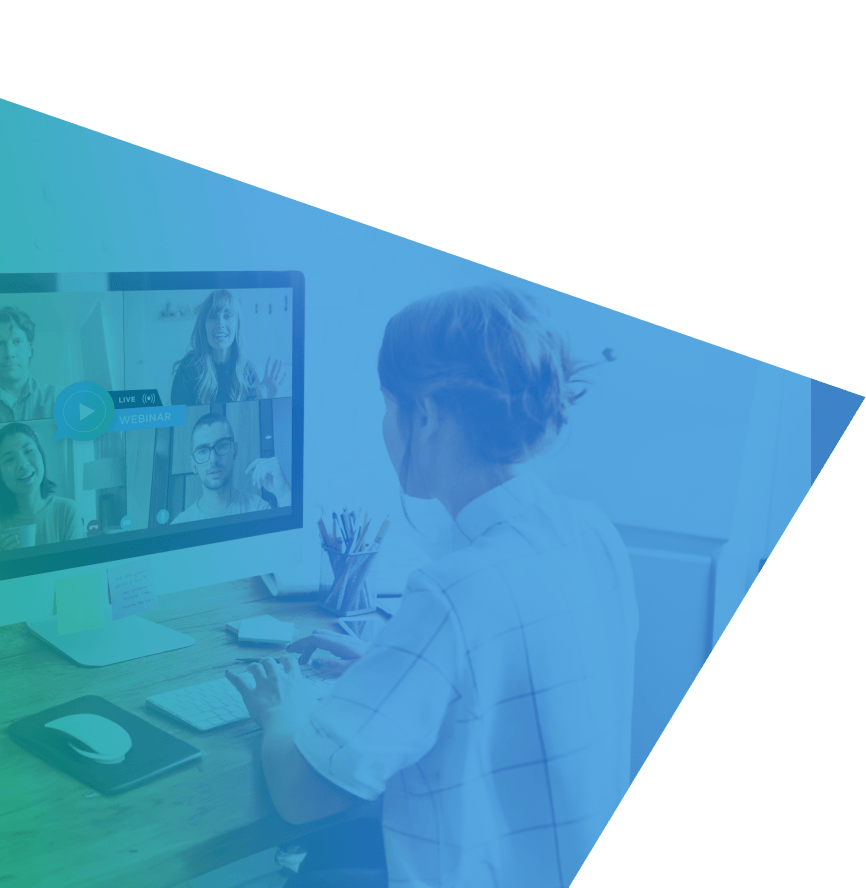
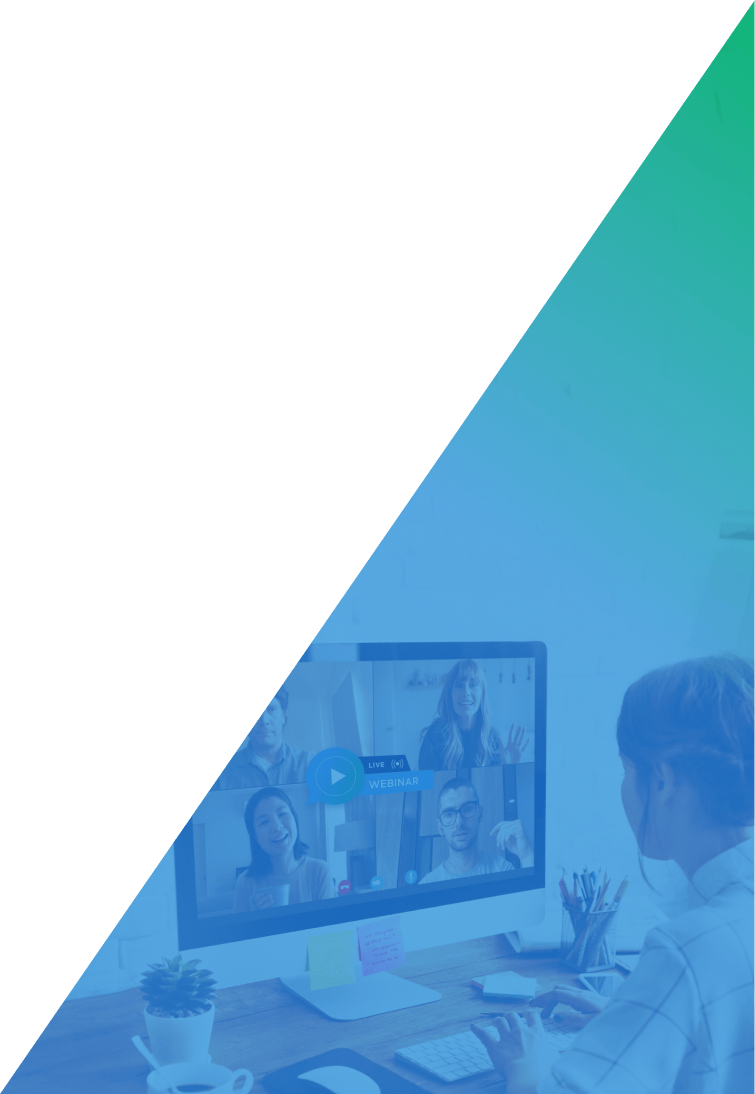
Courses module: demo updates

diff --git a/modules/courses/public/assets/courses.css b/modules/courses/public/assets/courses.css
@@ -1,1 +1,1 @@
-html,body{height:100%}.container{margin-right:auto;margin-left:auto;max-width:100%;width:100%;padding-right:15px;padding-left:15px}@media (min-width: 576px){.container{max-width:540px}}@media (min-width: 768px){.container{max-width:720px}}@media (min-width: 992px){.container{max-width:960px}}@media (min-width: 1200px){.container{max-width:1140px}}@media screen and (min-width: 1400px){.container{max-width:1370px}}@media screen and (min-width: 1600px){.container{max-width:1570px}}a:not(.pos-clean){text-decoration:underline;color:rgb(var(--interactive-text))}p{padding:8px 0}.logo{font-size:1rem;font-weight:700;display:inline-flex;flex-direction:column;align-items:baseline;color:rgb(var(--prominent))}@media (min-width: 768px){.logo{font-size:1.4rem;flex-direction:row;gap:1rem}}.heading{padding:6px 0 24px;text-align:center;font-size:1.6rem;line-height:1.2}@media (min-width: 768px){.heading{font-size:2rem}}.form-panel{max-width:500px;margin:16px auto}.user-form .user-form__fieldset{padding-bottom:18px}.user-form .user-form__footer{padding-top:24px;font-size:.9rem;color:rgb(var(--supplementary))}.page-courses{display:grid;height:100%;grid-template-columns:1fr;grid-template-rows:80px 1fr;grid-auto-flow:row}.page-courses .main{display:flex}.page-courses .content-static{padding-top:2rem}.page-courses .user-forms{display:flex;flex:1;background-position:bottom left;background-size:contain;background-repeat:no-repeat}.page-courses .user-forms--register{align-items:center;background-position-x:right}.page-courses .user-forms__register-content{display:flex;flex:1;flex-direction:column}.page-courses .user-forms--register .user-forms__content{display:flex;flex-wrap:wrap;align-items:center;justify-content:center;gap:4rem;padding:2rem .5rem}.page-courses .user-forms__video{max-width:100%;height:auto;aspect-ratio:16/9}.page-courses .user-forms--register .heading--multiline{font-weight:700;font-size:3rem}.page-courses .user-forms--register .heading--multiline .heading__sub{display:block;font-size:2rem;font-weight:100}@media (min-width: 1024px){.page-courses .user-forms--register .heading--multiline{text-align:left}}.page-courses .user-forms__title,.page-courses .user-forms__description{max-width:640px;margin:2rem auto;text-align:center}.page-courses .user-forms__title{font-size:2rem;font-weight:700}.page-courses .user-forms__description{font-size:1.2rem;text-shadow:0 0 24px rgb(var(--panel))}.courses{display:grid;height:100%;width:100%;grid-template-columns:1fr;grid-template-rows:max-content 1fr}@media (min-width: 1024px){.courses{grid-template-columns:1fr 300px;grid-template-rows:1fr;gap:0em 2em;grid-auto-flow:row}}@media (min-width: 1280px){.courses{grid-template-columns:1fr 480px}}@media (min-width: 1920px){.courses{grid-template-columns:1fr 560px}}.courses__sidebar{max-height:0;opacity:0;transition:all .3s ease-out;overflow:hidden;order:0;padding:0 1rem}@media (min-width: 1024px){.courses__sidebar{max-height:none;overflow:visible;opacity:1;order:2;padding:0}}.courses__sidebar--open{max-height:2000px;display:block;opacity:1}.module-list{padding:1rem 0}.module-list__item{margin-bottom:.5rem;padding-bottom:.5rem;border-bottom:1px solid rgb(var(--divider))}.module-list__item-title{display:flex;align-items:center;justify-content:space-between;padding:.5rem 1rem .5rem 0;font-size:1rem;font-weight:700;cursor:pointer}.module-list__item--active .module-list__item-title{color:rgb(var(--interactive-text))}.course-list{max-height:0;overflow:hidden;opacity:0;transition:all .3s ease-in-out}.module-list__item--active .course-list{max-height:100vh;opacity:1}.module-list__item-icon{transition:transform .2s ease-in-out}.module-list__item--active .module-list__item-icon{transform:scaleY(-1)}.course-list__item{display:flex;flex-direction:row;align-items:flex-start;gap:1rem;color:rgb(var(--prominent));padding:1rem;transition:all .2s ease-in-out;border-left:1px solid rgb(var(--divider))}.course-list__item--active{color:rgb(var(--interactive-text));border-color:rgb(var(--interactive-graphic))}.course-list__item:not(.course-list__item--unpublished):hover{color:rgb(var(--interactive-hover));background:rgb(var(--divider))}.course-list__image{width:160px;height:auto;background-color:rgb(var(--page))}@media (min-width: 1024px) and (max-width: 1280px){.course-list__image{width:100px}}.course-list__title{display:flex;flex:1;flex-direction:column;text-decoration:none;font-size:1rem}.course-list__description{display:block;font-size:.9rem;padding:.5rem 0;color:rgb(var(--supplementary))}.courses__content{order:1;padding:3rem 2rem 0}.video{position:relative;width:100%;aspect-ratio:16/9;max-width:1570px;margin:2rem auto 4rem}.video__iframe{position:absolute;top:0;left:0;width:100%;height:100%}.header{background:rgb(var(--panel));height:80px;display:flex;width:100%;align-items:center;border-bottom:1px solid rgb(var(--divider));padding:1.6rem;justify-content:space-between}.header__actions{display:flex;gap:.5rem;align-items:center}.header__links{display:flex;flex-wrap:wrap;gap:.5rem;justify-content:space-around}.header__menu{width:32px;height:32px}@media (min-width: 1024px){.header__menu{display:none}}.markdown-body ol{list-style-type:decimal}.markdown-body ul{list-style-type:disc}
[1 lines of base64/hex data omitted]

diff --git a/modules/courses/src/courses.css b/modules/courses/src/courses.css
@@ -1,3 +1,19 @@
+@font-face {
+  font-family: 'Gotham';
+  src: url(./fonts/Gotham-Light.woff) format('woff');
+  font-weight: 300;
+  font-style: normal;
+  font-display: swap;
+}
+
+@font-face {
+  font-family: 'Gotham';
+  src: url(./fonts/Gotham-Bold.woff2) format('woff2');
+  font-weight: 600;
+  font-style: normal;
+  font-display: swap;
+}
+
 html,
 body {
   height: 100%;
@@ -75,10 +91,11 @@ p {
 }
 
 .heading {
-  padding: 6px 0 24px;
-  text-align: center;
+  font-family: 'Gotham', ui-sans-serif, system-ui, -apple-system, BlinkMacSystemFont, "Segoe UI", Roboto, "Helvetica Neue", Arial, "Noto Sans", sans-serif, "Apple Color Emoji", "Segoe UI Emoji", "Segoe UI Symbol", "Noto Color Emoji";
   font-size: 1.6rem;
+  text-align: center;
   line-height: 1.2;
+  padding: 6px 0 24px;
 }
 
 @media (min-width: 768px) {
@@ -89,7 +106,7 @@ p {
 
 .form-panel {
   max-width: 500px;
-  margin: 16px auto;
+  /* margin: 16px auto; */
 }
 
 .user-form .user-form__fieldset {
@@ -112,6 +129,7 @@ p {
 
 .page-courses .main {
   display: flex;
+  background: radial-gradient(87.97% 61.63% at 39.2% 54.59%, #FFF 51.28%, #F5F6FC 100%);
 }
 
 .page-courses .content-static {
@@ -121,20 +139,23 @@ p {
 .page-courses .user-forms {
   display: flex;
   flex: 1;
-  background-position: bottom left;
+  background-position: bottom right;
   background-size: contain;
   background-repeat: no-repeat;
 }
 
-.page-courses .user-forms--register {
+.page-courses .user-forms--center {
   align-items: center;
-  background-position-x: right;
 }
 
 .page-courses .user-forms__register-content {
   display: flex;
   flex: 1;
   flex-direction: column;
+}
+
+.page-courses .user-forms--login .user-forms__content {
+  max-width: 768px;
 }
 
 .page-courses .user-forms--register .user-forms__content {
@@ -153,32 +174,36 @@ p {
   aspect-ratio: 16/9;
 }
 
-.page-courses .user-forms--register .heading--multiline {
+.page-courses .user-forms .heading--multiline {
+  width: 100%;
+  max-width: 1140px;
+  margin: 0 auto;
   font-weight: bold;
   font-size: 3rem;
 }
-.page-courses .user-forms--register .heading--multiline .heading__sub {
+
+.page-courses .user-forms .heading--multiline .heading__sub {
   display: block;
   font-size: 2rem;
   font-weight: 100;
 }
 
 @media (min-width: 1024px) {
-  .page-courses .user-forms--register .heading--multiline {
+  .page-courses .user-forms .heading--multiline {
     text-align: left;
   }
 }
 
 .page-courses .user-forms__title,
 .page-courses .user-forms__description {
-  max-width: 640px;
+  max-width: 1140px;
   margin: 2rem auto;
-  text-align: center;
 }
 
 .page-courses .user-forms__title {
-  font-size: 2rem;
+  font-family: "Gotham", ui-sans-serif, system-ui, -apple-system, BlinkMacSystemFont, "Segoe UI", Roboto, "Helvetica Neue", Arial, "Noto Sans", sans-serif, "Apple Color Emoji", "Segoe UI Emoji", "Segoe UI Symbol", "Noto Color Emoji";
   font-weight: bold;
+  font-size: 2rem;
 }
 
 .page-courses .user-forms__description {
@@ -192,6 +217,7 @@ p {
   width: 100%;
   grid-template-columns: 1fr;
   grid-template-rows: max-content 1fr;
+  background-color: rgb(var(--panel));
 }
 
 @media (min-width: 1024px) {
@@ -386,6 +412,9 @@ p {
   .header__menu {
     display: none;
   }
+}
+.markdown-body {
+  background: transparent;
 }
 
 .markdown-body ol {

diff --git a/modules/courses/src/courses.js b/modules/courses/src/courses.js
@@ -1,14 +1,22 @@
 import './courses.css';
 
 // responsive navigation
-document.querySelector('[data-navigation-toggle]').addEventListener('click', () => {
-  document.querySelector('[data-nav-container]').classList.toggle('courses__sidebar--open');
-});
+const navigationToggle = document.querySelector('[data-navigation-toggle]');
+
+if (navigationToggle) {
+  document.querySelector('[data-navigation-toggle]').addEventListener('click', () => {
+    document.querySelector('[data-nav-container]').classList.toggle('courses__sidebar--open');
+  });
+}
 
 // sidebar accordion
-document.querySelectorAll('[data-nav-container] .module-list__item').forEach(listItem => {
-  const trigger = listItem.querySelector('.module-list__item-title');
-  trigger.addEventListener('click', () => {
-    listItem.classList.toggle('module-list__item--active');
+const navContainer = document.querySelector('[data-nav-container]');
+
+if (navContainer) {
+  navContainer.querySelectorAll('[data-nav-container] .module-list__item').forEach(listItem => {
+    const trigger = listItem.querySelector('.module-list__item-title');
+    trigger.addEventListener('click', () => {
+      listItem.classList.toggle('module-list__item--active');
+    });
   });
-});
+}

diff --git a/modules/courses/public/assets/courses.js b/modules/courses/public/assets/courses.js
@@ -1,1 +1,1 @@
-(()=>{document.querySelector("[data-navigation-toggle]").addEventListener("click",()=>{document.querySelector("[data-nav-container]").classList.toggle("courses__sidebar--open")});document.querySelectorAll("[data-nav-container] .module-list__item").forEach(e=>{e.querySelector(".module-list__item-title").addEventListener("click",()=>{e.classList.toggle("module-list__item--active")})});})();
+(()=>{var i=document.querySelector("[data-navigation-toggle]");i&&document.querySelector("[data-navigation-toggle]").addEventListener("click",()=>{document.querySelector("[data-nav-container]").classList.toggle("courses__sidebar--open")});var t=document.querySelector("[data-nav-container]");t&&t.querySelectorAll("[data-nav-container] .module-list__item").forEach(e=>{e.querySelector(".module-list__item-title").addEventListener("click",()=>{e.classList.toggle("module-list__item--active")})});})();
